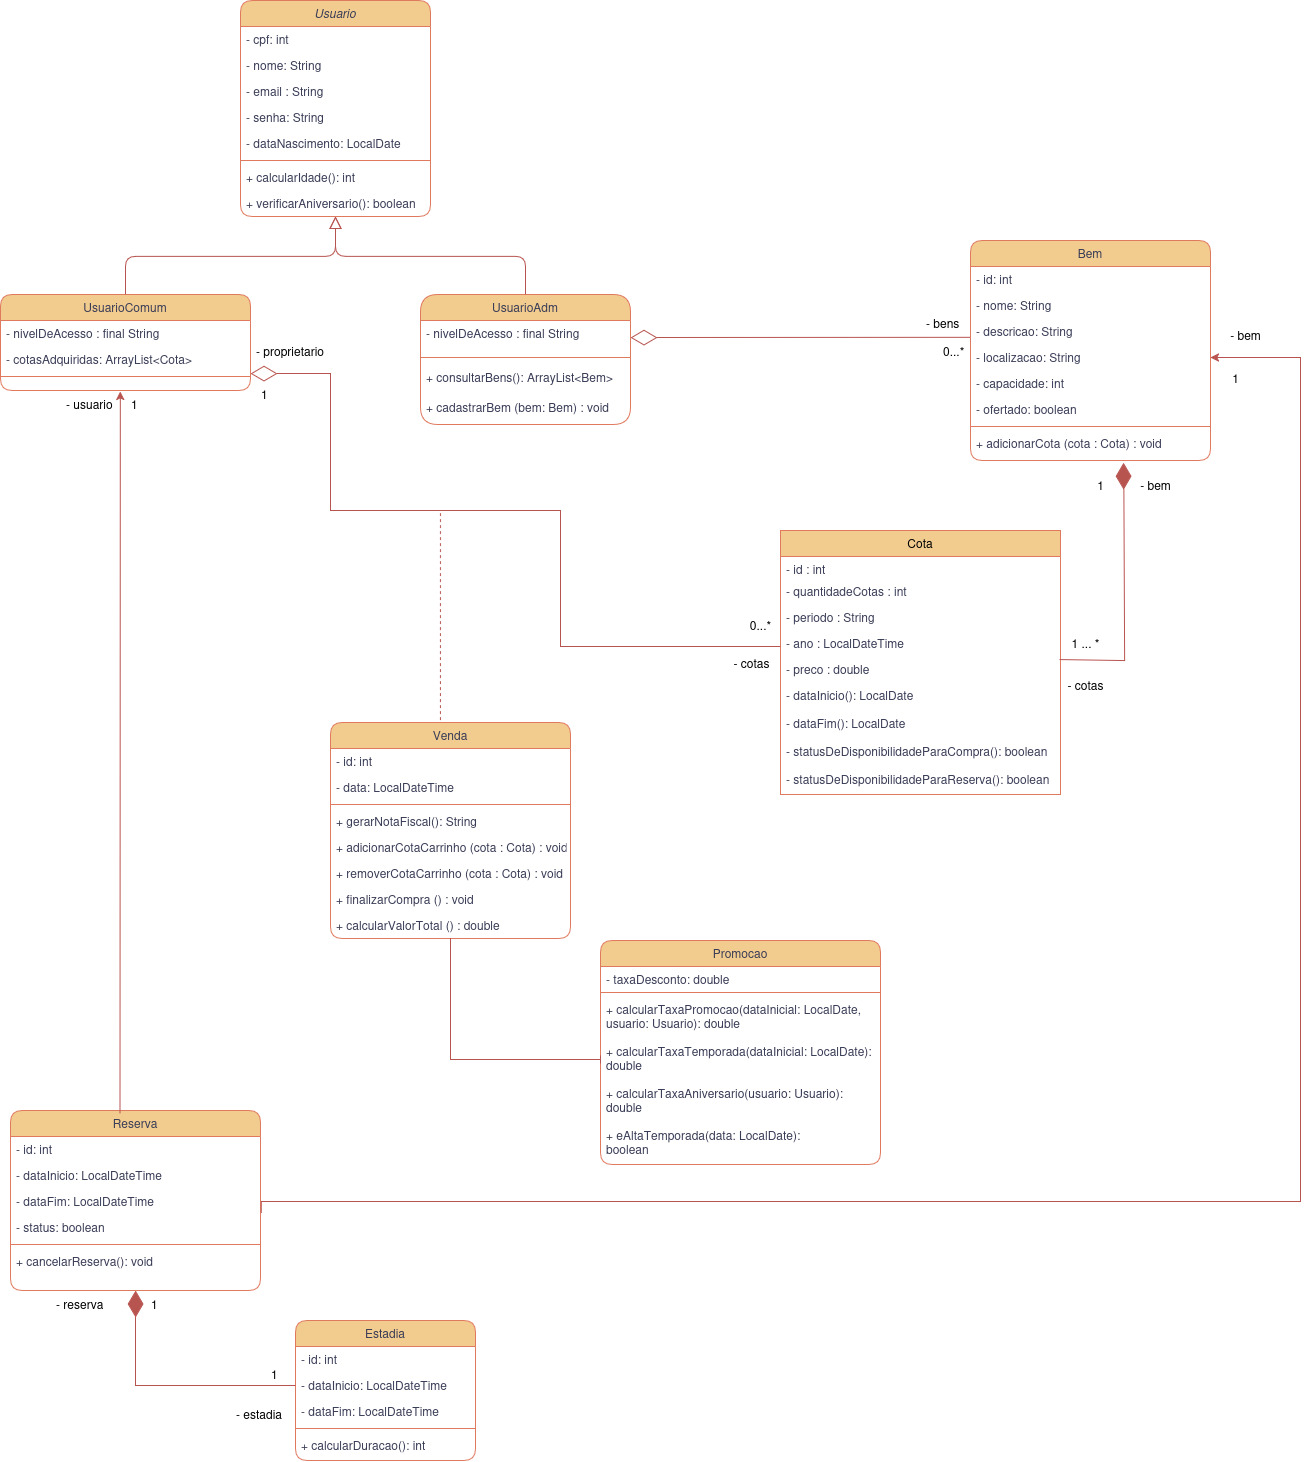
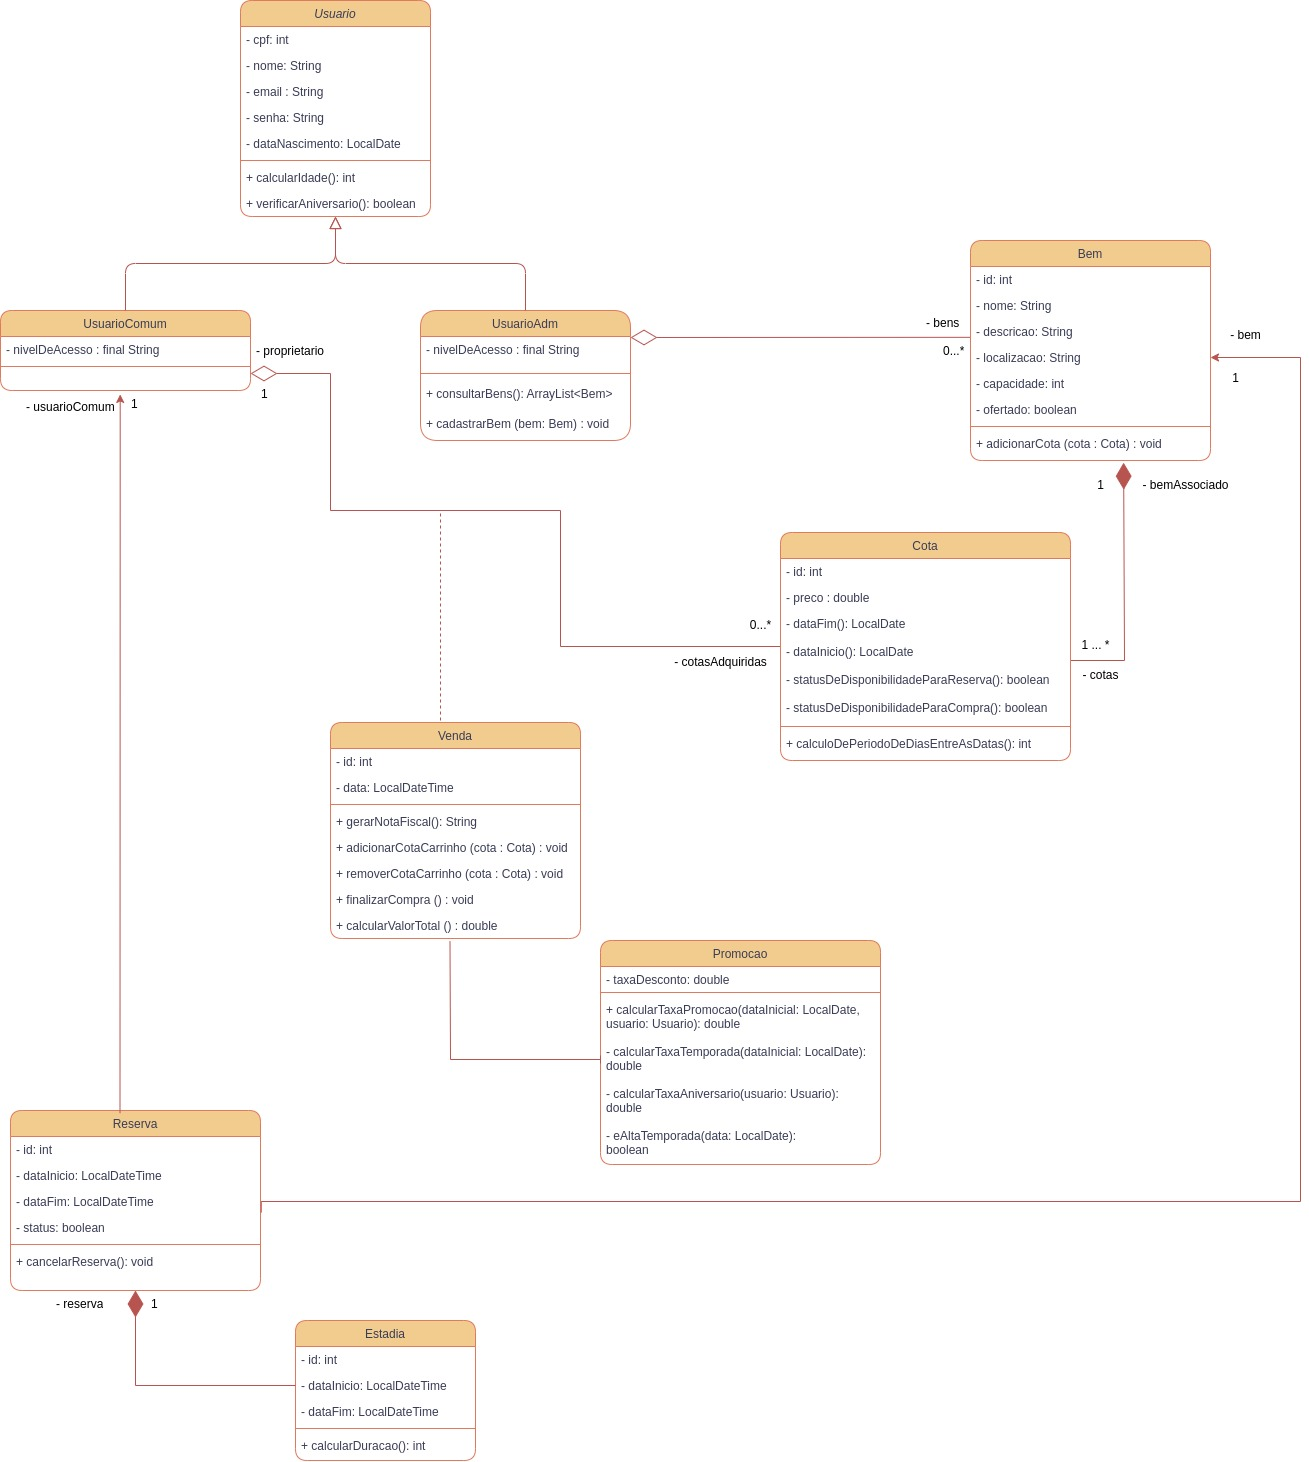
atualização e teste das Classes Básicas

diff --git a/projeto/src/br/ufrpe/time_share/Programa.java b/projeto/src/br/ufrpe/time_share/Programa.java
@@ -3,42 +3,111 @@ package br.ufrpe.time_share;
 import br.ufrpe.time_share.negocio.beans.*;
 
 import java.time.LocalDate;
+import java.time.LocalDateTime;
+import java.util.ArrayList;
 
 
 public class Programa {
     public static void main(String[] args) {
-        // USUÀRIO ADM
-        Usuario adm = new UsuarioAdm(111222336, "$$767$$");
-        // BEM
-        Bem bem = new Bem(1111, "Apartamento beira-mar", "Centro do Recife",
-                "Recife-Pe", 6);
-        // COTAS
-        Cota c1 = new Cota(6241, LocalDate.now(), LocalDate.of(2025, 1, 20),
-                100000);
 
-        Cota c2 = new Cota(9542, LocalDate.of(2025, 2, 1), LocalDate.of(2025, 2, 10), 500000);
+        // USUÁRIO ADMINISTRADOR
 
-        // CADASTRANDO UMA COTA
-        ((UsuarioAdm) adm).cadastrarBem(bem);
+        Usuario administrador = new UsuarioAdm(126654, "Senha123");
 
-        // ADICIONANDO UMA COTA NO BEM
-        bem.adicionarCota(c1);
-        bem.adicionarCota(c2);
+        Bem b1 = new Bem(1111, "Casa Da Praia", "Noronha",
+                "Recife-pe" , 7);
 
-        // USUARIO COMUM
-        Usuario userComum = new UsuarioComum(8845412, "LALA%$");
+        Bem b2 = new Bem(2222, "Apartamento cidade", "Centro",
+                "Recife-pe" , 3);
 
-        Venda v1 = new Venda(6666, (UsuarioComum) userComum);
+        // ADMINISTRADOR CADASTRANDO BEM
 
-        v1.adicionarCotaCarrinho(c1);
-        v1.adicionarCotaCarrinho(c2);
+        ((UsuarioAdm) administrador).cadastrarBem(b1);
+        ((UsuarioAdm) administrador).cadastrarBem(b2);
 
-        System.out.println(v1);
+        System.out.println(((UsuarioAdm) administrador).consultarBens());
 
+        // OFERTANDO BEM
+        b1.setOfertado(true);
+
+        // CRIANDO E ADICIONANDO COTAS AO BEM
+
+        b1.adicionarCota(336541, LocalDate.of(2025, 2, 10),
+                LocalDate.of(2025, 2, 27), 20000);
+
+        b1.adicionarCota(53641, LocalDate.of(2025, 3, 12),
+                LocalDate.of(2025, 3, 30), 15000);
+
+        b1.adicionarCota(9451213, LocalDate.of(2025, 4, 7),
+                LocalDate.of(2025, 5, 4), 30000);
+
+        System.out.println("\nCOTAS OFERTADAS BEM1\n" + b1.getCotas());
+
+
+        // USUÀRIO COMUM
+
+        Usuario usuarioComum = new UsuarioComum (11233215, "SenhaComum");
+        usuarioComum.setNome("Samara");
+        usuarioComum.setDataNascimento(LocalDate.now());
+
+
+        // RELACIONANDO USUARIOCOMUM, COTA E VENDA
+
+        Venda v1 = new Venda(12354, (UsuarioComum) usuarioComum);
+
+        ArrayList<Cota> cotasBem1 = b1.getCotas();
+
+        v1.adicionarCotaCarrinho(cotasBem1.get(0));
+        v1.adicionarCotaCarrinho(cotasBem1.get(1));
+        v1.adicionarCotaCarrinho(cotasBem1.get(2));
+
+        System.out.println("\nCarrinho de Compras: \n" +v1.getCarrinhoDeComprasCotas());
+
+        v1.removerCotaCarrinho(cotasBem1.get(1));
+
+        System.out.println("\nCarrinho de Compras após Remoção: \n" +v1.getCarrinhoDeComprasCotas());
+
+        System.out.println(" ");
+        System.out.println(v1.gerarNotaFiscal());
+
+        // PROMOÇÃO
+        Promocao p1 = new Promocao();
+
+        double x = p1.calcularTaxaPromocao(LocalDate.now(), usuarioComum);
+        System.out.println("PROMOÇÃO: " + x*100 + "% de desconto");
+
+        double valorDescontado = v1.calcularValorTotal() * x;
+        System.out.println("VALOR TOTAL R$" + v1.calcularValorTotal());
+        System.out.println("VALOR DESCONTADO R$" + valorDescontado);
+        System.out.println("VALOR FINAL R$" + (v1.calcularValorTotal() - valorDescontado));
+        System.out.println(" ");
         v1.finalizarCompra();
 
-        // VERIFICANDO SE USUARIO COMUM POSSUI AS COTAS DEPOIS DE FINALIZAR A COMPRA
-        System.out.println(((UsuarioComum) userComum).getCotasAdquiridas());
+        // VERIFICANDO A DISPONIBILIADE DE COMPRA DAS COTAS NO BEM1
+        // NOTE QUE A DISPONIBILIDADE DA COMPRA DA COTA
+        System.out.println("\nCOTAS DO BEM APÓS A COMPRA SER FINALIZADA: \n" + b1.getCotas());
+
+        // VERIFICANDO SE O USUÀRIO RECEBEU AS COTAS COMPRADAS
+        System.out.println("\nCOTAS USUÀRIO: \n" + ((UsuarioComum) usuarioComum).getCotasAdquiridas());
+
+
+        // ESTADIA E RESERVA
+        Reserva r1 = new Reserva(6314,
+                LocalDateTime.of(2025, 2, 15, 12, 00, 00),
+                LocalDateTime.of(2025, 2, 28, 12, 00, 00),
+                (UsuarioComum) usuarioComum, b1);
+
+        Estadia estadia = new Estadia(63141, r1);
+
+        // CHECK-IN
+        estadia.setDataInicio(LocalDateTime.now());
+
+        // CHECK-OUT NO FIM DA RESERVA
+        // LEMBRANDO QUE NÂO É OBRIGATÓRIO SER NO FIM DA RESERVA PARA TERMINAR SUA ESTADIA
+        // VALE O MESMO PARA O CHECK-IN
+        estadia.setDataFim(r1.getDataFim());
+
+        System.out.println("\n\nIMPRIMINDO AS INFORMAÇÕES DA ESTADIA REALIZADA:" + estadia);
 
 
 

diff --git a/projeto/src/br/ufrpe/time_share/negocio/beans/Estadia.java b/projeto/src/br/ufrpe/time_share/negocio/beans/Estadia.java
@@ -1,34 +1,33 @@
 package br.ufrpe.time_share.negocio.beans;
 
-import java.time.LocalDate;
+
+import java.time.LocalDateTime;
 import java.time.temporal.ChronoUnit;
 
 public class Estadia {
     private int id;
-    private LocalDate dataInicio;
-    private LocalDate dataFim;
+    private LocalDateTime dataInicio;
+    private LocalDateTime dataFim;
     private Reserva reserva;
 
     public Estadia(int id, Reserva reserva) {
         this.reserva = reserva;
         this.id = id;
-        setDataInicio(reserva.getDataInicio());
-        setDataFim(reserva.getDataFim());
     }
 
-    public LocalDate getDataInicio() {
+    public LocalDateTime getDataInicio() {
         return dataInicio;
     }
 
-    public void setDataInicio(LocalDate dataInicio) {
+    public void setDataInicio(LocalDateTime dataInicio) {
         this.dataInicio = dataInicio;
     }
 
-    public LocalDate getDataFim() {
+    public LocalDateTime getDataFim() {
         return dataFim;
     }
 
-    public void setDataFim(LocalDate dataFim) {
+    public void setDataFim(LocalDateTime dataFim) {
         this.dataFim = dataFim;
     }
 
@@ -50,7 +49,7 @@ public class Estadia {
 
     //CALCULAR DURACAO DA ESTADIA
     public int calcularDuracao () {
-      return (int) ChronoUnit.DAYS.between (reserva.getDataInicio(),reserva.getDataFim());
+      return (int) getDataInicio().until(getDataFim(), ChronoUnit.DAYS);
     }
 
     @Override
@@ -59,7 +58,8 @@ public class Estadia {
                 "id=" + id +
                 ", dataInicio=" + dataInicio +
                 ", dataFim=" + dataFim +
-                ", reserva=" + reserva +
+                ", bem=" + reserva.getBem().getNome() +
+                ", usuario=" + reserva.getUsuarioComum().getNome() +
                 '}';
     }
 }

diff --git a/projeto/src/br/ufrpe/time_share/negocio/beans/Cota.java b/projeto/src/br/ufrpe/time_share/negocio/beans/Cota.java
@@ -13,16 +13,16 @@ public class Cota {
     private Bem bemAssociado;
     private LocalDate dataInicio;
     private LocalDate dataFim;
-    private int quantidadeDiasDeReserva;
+
 
     //CONSTRUTOR
-    public Cota(int id, LocalDate dataInicio, LocalDate dataFim, double preco) {
+    public Cota(int id, LocalDate dataInicio, LocalDate dataFim, double preco, Bem bemAssociado) {
         this.setId(id);
         this.setDataInicio(dataInicio);
         this.setDataFim(dataFim);
         this.setPreco(preco);
-        calculoQuantidadeDeDias();
-        this.statusDeDisponibilidadeParaCompra = true; //inicializado como disponivel
+        this.bemAssociado = bemAssociado;
+        this.setStatusDeDisponibilidadeParaCompra(bemAssociado.isOfertado()); //inicializado como disponivel
         this.statusDeDisponibilidadeParaReserva = true; //inicializado como disponivel
     }
 
@@ -45,25 +45,12 @@ public class Cota {
         this.dataFim = dataFim;
     }
 
-    public int getQuantidadeDiasDeReserva() {
-        return quantidadeDiasDeReserva;
-    }
-
-    private void calculoQuantidadeDeDias (){
-        this.quantidadeDiasDeReserva = (int) this.dataInicio.until(dataFim, ChronoUnit.DAYS);
+    private int calculoDoPeriodoDeDiasEntreAsDatas(){
+        return  (int) this.dataInicio.until(dataFim, ChronoUnit.DAYS);
     }
 
     public Bem getBemAssociado() {
         return bemAssociado;
-    }
-
-    public void setBemAssociado(Bem bemAssociado) {
-        if (this.bemAssociado != bemAssociado) {
-            this.bemAssociado = bemAssociado;
-            if (bemAssociado != null && !bemAssociado.getCotas().contains(this)) {
-                bemAssociado.adicionarCota(this);
-            }
-        }
     }
 
     public Usuario getProprietario() {

diff --git a/projeto/src/br/ufrpe/time_share/negocio/beans/Promocao.java b/projeto/src/br/ufrpe/time_share/negocio/beans/Promocao.java
@@ -4,17 +4,16 @@ import java.time.LocalDate;
 
 public class Promocao {
 
-
-    private double taxa;
+    private double taxaDesconto;
 
     //CONSTRUTOR
     public Promocao() {
-        this.taxa = 0.00;
+        this.taxaDesconto = 0.00;
     }
 
     //METODOS GET E SET
-    public void setTaxa(double taxa) {
-        this.taxa = taxa;
+    public void setTaxaDesconto(double taxaDesconto) {
+        this.taxaDesconto = taxaDesconto;
     }
 
     public double getTaxaPromocaoAniversario() {
@@ -30,19 +29,19 @@ public class Promocao {
     }
 
     public double calcularTaxaPromocao(LocalDate dataInicio, Usuario usuario) {
-        this.taxa = 0.0;
+        this.taxaDesconto = 0.0;
         if (dataInicio != null) {
-            this.taxa += calcularTaxaTemporada(dataInicio);
+            this.taxaDesconto += calcularTaxaTemporada(dataInicio);
         }
         if (usuario != null) {
-            this.taxa += calcularTaxaAniversario(usuario);
+            this.taxaDesconto += calcularTaxaAniversario(usuario);
         }
-        return taxa;
+        return taxaDesconto;
     }
 
 
     // PROMOCAO COM BASE NO ANIVERSARIO
-    public double calcularTaxaAniversario(Usuario usuario) {
+    private double calcularTaxaAniversario(Usuario usuario) {
         double taxaAniversario = 0;
         if (usuario.verificarAniversario()) {
             taxaAniversario = 0.15d;
@@ -51,7 +50,7 @@ public class Promocao {
     }
 
     //LOGICA DE TEMPORADA E TAXA:
-    public double calcularTaxaTemporada(LocalDate dataInicio) {
+    private double calcularTaxaTemporada(LocalDate dataInicio) {
         double valorTaxa = 0;
         if (eAltaTemporada(dataInicio)) {
             valorTaxa = 0.25d;

diff --git a/projeto/src/br/ufrpe/time_share/negocio/beans/Reserva.java b/projeto/src/br/ufrpe/time_share/negocio/beans/Reserva.java
@@ -1,16 +1,16 @@
 package br.ufrpe.time_share.negocio.beans;
 
-import java.time.LocalDate;
+import java.time.LocalDateTime;
 
 public class Reserva {
     private int id;
-    private LocalDate dataInicio;
-    private LocalDate dataFim;
+    private LocalDateTime dataInicio;
+    private LocalDateTime dataFim;
     private boolean status;
     private UsuarioComum usuarioComum;
     private Bem bem;
 
-    public Reserva(int id, LocalDate dataInicio, LocalDate dataFim, UsuarioComum usuarioComum, Bem bem) {
+    public Reserva(int id, LocalDateTime dataInicio, LocalDateTime dataFim, UsuarioComum usuarioComum, Bem bem) {
         this.id = id;
         this.status = true;
         this.dataInicio = dataInicio;
@@ -39,19 +39,19 @@ public class Reserva {
         return this.status;
     }
 
-    public LocalDate getDataInicio() {
+    public LocalDateTime getDataInicio() {
         return dataInicio;
     }
 
-    public void setDataInicio(LocalDate dataInicio) {
+    public void setDataInicio(LocalDateTime dataInicio) {
         this.dataInicio = dataInicio;
     }
 
-    public LocalDate getDataFim() {
+    public LocalDateTime getDataFim() {
         return dataFim;
     }
 
-    public void setDataFim(LocalDate dataFim) {
+    public void setDataFim(LocalDateTime dataFim) {
         this.dataFim = dataFim;
     }
 

diff --git a/projeto/src/br/ufrpe/time_share/negocio/beans/Bem.java b/projeto/src/br/ufrpe/time_share/negocio/beans/Bem.java
@@ -1,5 +1,6 @@
 package br.ufrpe.time_share.negocio.beans;
 
+import java.time.LocalDate;
 import java.util.ArrayList;
 import java.util.List;
 
@@ -76,22 +77,15 @@ public class Bem {
         this.ofertado = ofertado;
     }
 
-    public List<Cota> getCotas() {
+    public ArrayList<Cota> getCotas() {
         return cotas;
     }
 
-    //OUTROS METODOS
-    public void criarCotas(ArrayList<Cota> cotas) {
-        this.cotas = cotas;
-    }
+    // OUTROS METODOS
 
-    public void adicionarCota(Cota cota) {
-        if (!this.cotas.contains(cota)) {
-            this.cotas.add(cota);
-            if (cota.getBemAssociado() != this) {
-                cota.setBemAssociado(this);
-            }
-        }
+    public void adicionarCota(int id, LocalDate dataInicio, LocalDate dataFim, double preco) {
+        Cota newCota = new Cota(id, dataInicio, dataFim, preco, this);
+        this.cotas.add(newCota);
     }
 
 
